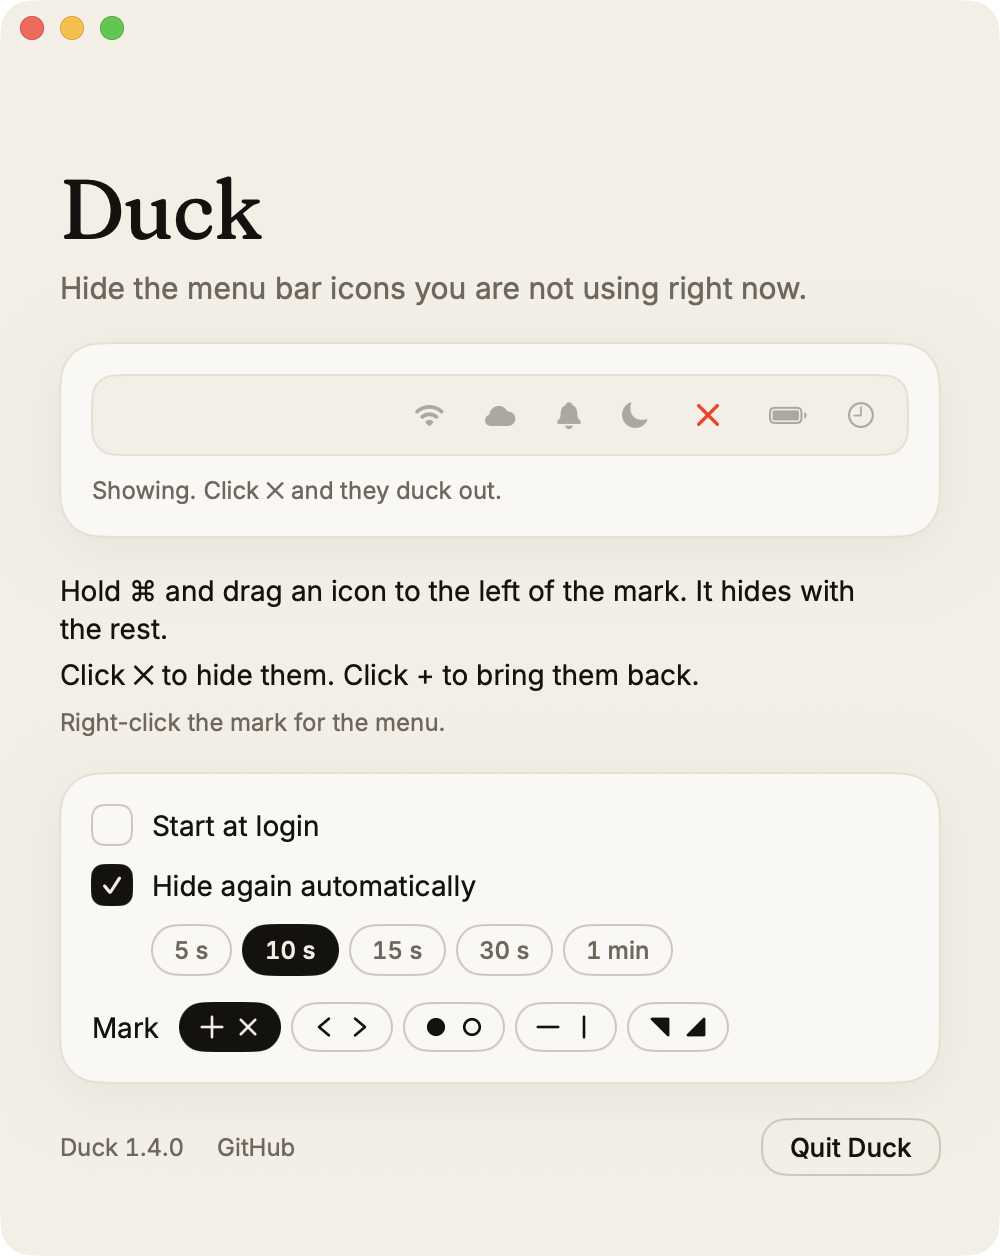
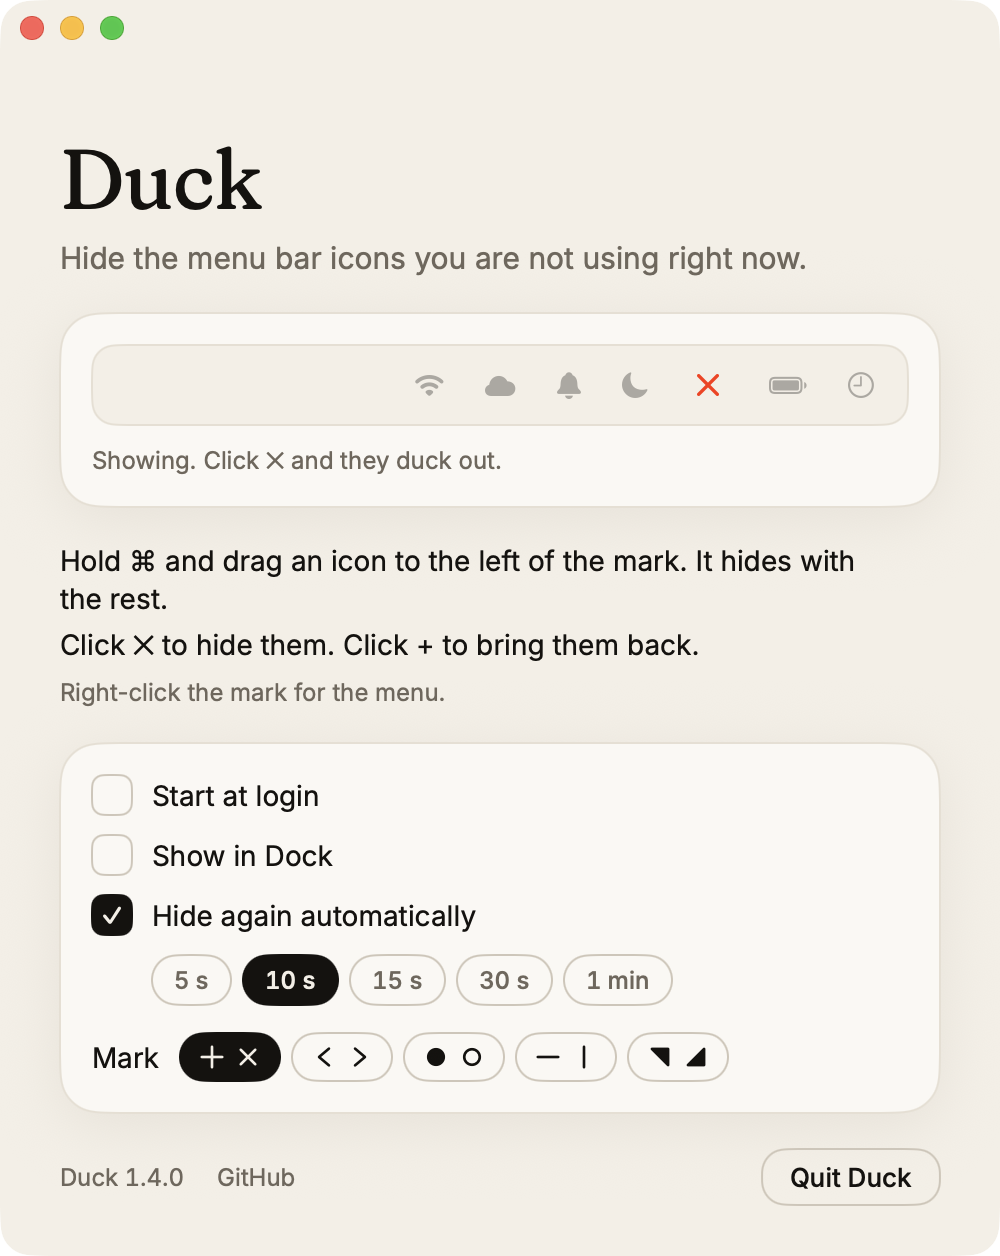
Show in Dock, off by default
One more row in Preferences, under Start at login. On, Duck becomes a
normal app: an icon in the Dock and in the ⌘-Tab switcher. Off, it is
the menu bar app it always was. It takes effect the moment it is
toggled, through the activation policy, and is remembered across
launches under the key showInDock. The pictures are shot again because
the window has a new row.

diff --git a/src/app/AppDelegate.swift b/src/app/AppDelegate.swift
@@ -1,4 +1,5 @@
 import AppKit
+import Combine
 import DuckCore
 
 final class AppDelegate: NSObject, NSApplicationDelegate {
@@ -6,9 +7,12 @@ final class AppDelegate: NSObject, NSApplicationDelegate {
 
     private let preferences = Preferences.shared
     private var statusBar: StatusBarController?
+    private var cancellables = Set<AnyCancellable>()
 
     func applicationDidFinishLaunching(_ notification: Notification) {
         NSApp.mainMenu = MainMenu.build()
+        showInDock(preferences.showInDock)
+        observePreferences()
 
         let statusBar = StatusBarController(preferences: preferences, updates: .shared)
         statusBar.openPreferences = { [weak self] in self?.showPreferences(nil) }
@@ -39,5 +43,27 @@ final class AppDelegate: NSObject, NSApplicationDelegate {
 
     @objc private func handleToggleNotification() {
         statusBar?.toggle()
+    }
+
+    /// A normal app while the switch is on: an icon in the Dock and a place in ⌘-Tab. Menu
+    /// bar only while it is off. main.swift starts it off; this applies what was saved.
+    private func showInDock(_ show: Bool) {
+        NSApp.setActivationPolicy(show ? .regular : .accessory)
+    }
+
+    private func observePreferences() {
+        // The switch takes effect the moment it is flipped, no relaunch. Turned on while
+        // running, macOS draws the Dock icon but leaves the app's own menu bar asleep until
+        // the app comes forward, so it is brought forward once. Turned off, the switch to
+        // accessory drops the app to the back, and coming forward again keeps the window
+        // the person is using where it was.
+        preferences.$showInDock
+            .dropFirst()
+            .receive(on: DispatchQueue.main)
+            .sink { [weak self] show in
+                self?.showInDock(show)
+                NSApp.activate(ignoringOtherApps: true)
+            }
+            .store(in: &cancellables)
     }
 }

diff --git a/src/data/Preferences.swift b/src/data/Preferences.swift
@@ -29,6 +29,7 @@ public final class Preferences: ObservableObject {
         public static let hidingWidth = "hidingWidth"
         public static let hidingBarWidth = "hidingBarWidth"
         public static let markStyle = "markStyle"
+        public static let showInDock = "showInDock"
     }
 
     /// The delays offered for hiding icons again, in seconds.
@@ -66,6 +67,12 @@ public final class Preferences: ObservableObject {
         didSet { defaults.set(markStyle.rawValue, forKey: Key.markStyle) }
     }
 
+    /// Off, Duck lives in the menu bar and nowhere else. On, it is a normal app as well: an
+    /// icon in the Dock and a place in ⌘-Tab.
+    @Published public var showInDock: Bool {
+        didSet { defaults.set(showInDock, forKey: Key.showInDock) }
+    }
+
     public init(defaults: UserDefaults = .standard) {
         self.defaults = defaults
         defaults.register(defaults: [
@@ -73,6 +80,7 @@ public final class Preferences: ObservableObject {
             Key.autoHideSeconds: Preferences.defaultAutoHideSeconds,
             Key.hasHiddenBefore: false,
             Key.markStyle: MarkStyle.plus.rawValue,
+            Key.showInDock: false,
         ])
 
         autoHide = defaults.bool(forKey: Key.autoHide)
@@ -84,5 +92,6 @@ public final class Preferences: ObservableObject {
         hidingWidth = defaults.double(forKey: Key.hidingWidth)
         hidingBarWidth = defaults.double(forKey: Key.hidingBarWidth)
         markStyle = MarkStyle(rawValue: defaults.string(forKey: Key.markStyle) ?? "") ?? .plus
+        showInDock = defaults.bool(forKey: Key.showInDock)
     }
 }

diff --git a/src/ui/PreferencesView.swift b/src/ui/PreferencesView.swift
@@ -63,6 +63,7 @@ struct PreferencesView: View {
                     if let message = login.message {
                         note(message)
                     }
+                    Toggle("Show in Dock", isOn: $preferences.showInDock)
                     Toggle("Hide again automatically", isOn: $preferences.autoHide)
                     HStack(spacing: 6) {
                         ForEach(Preferences.autoHideChoices, id: \.self) { seconds in

diff --git a/README.md b/README.md
@@ -80,6 +80,9 @@ Duck's mark appears in the menu bar, and the first time its window comes with it
 **Start at login.** A checkbox in Preferences. Move the app to `/Applications` first so
 macOS can always find it.
 
+**Show in Dock.** Off by default: Duck lives in the menu bar and nowhere else. Tick it and
+Duck also gets an icon in the Dock and a place in ⌘-Tab, the moment you tick it.
+
 **Updates.** Duck asks GitHub once every few hours whether a newer release exists. If one
 does, the window and the right-click menu say so with a link. It never downloads anything
 on its own.
